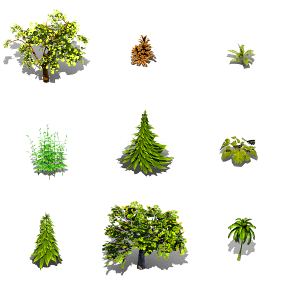
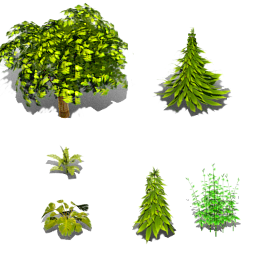
Updated spritesheets and made a couple of minor changes

diff --git a/Client/Core/src/plotManager.js b/Client/Core/src/plotManager.js
@@ -25,24 +25,24 @@ define([
             {
                 var position = positions[i];
                 var weaponName;
-                //                switch (i % 4)
-                //                {
-                //                    case 0:
-                weaponName = 'Bronze Sword and Shield';
-                //                        break;
-                //
-                //                    case 1:
-                //                        weaponName = 'Short Bow';
-                //                        break;
-                //
-                //                    case 2:
-                //                        weaponName = 'Twin Bronze Swords';
-                //                        break;
-                //
-                //                    case 3:
-                //                        weaponName = 'Iron Longsword';
-                //                        break;
-                //                }
+                switch (i % 4)
+                {
+                    case 0:
+                        weaponName = 'Bronze Sword and Shield';
+                        break;
+
+                    case 1:
+                        weaponName = 'Short Bow';
+                        break;
+
+                    case 2:
+                        weaponName = 'Twin Bronze Swords';
+                        break;
+
+                    case 3:
+                        weaponName = 'Iron Longsword';
+                        break;
+                }
 
                 var soldier = new Soldier({
                     name: 'Unit ' + (i + 1),

diff --git a/Client/Core/src/players/player.js b/Client/Core/src/players/player.js
@@ -1,8 +1,8 @@
-define(['text!../../content/attacks.json', '../eventManager', '../pathManager', 'renderer', '../scheduler', '../soundManager', '../utility'],
-    function (AttackData, EventManager, PathManager, Renderer, Scheduler, SoundManager, Utility)
+define(['text!../../content/soldierData.json', '../eventManager', '../pathManager', 'renderer', '../scheduler', '../soundManager', '../utility'],
+    function (SoldierData, EventManager, PathManager, Renderer, Scheduler, SoundManager, Utility)
     {
         'use strict';
-        var attackData = JSON.parse(AttackData);
+        var soldierData = JSON.parse(SoldierData);
 
         function Player(map, units, activeUnitView, renderableTurnQueue)
         {
@@ -47,7 +47,7 @@ define(['text!../../content/attacks.json', '../eventManager', '../pathManager', 
         {
             var attacks = [];
             var weapon = this.unit.weapon;
-            var attackType = attackData[weapon.type];
+            var attackType = soldierData[weapon.type];
 
             for (var attackName in attackType)
             {
@@ -71,7 +71,7 @@ define(['text!../../content/attacks.json', '../eventManager', '../pathManager', 
                     return Math.min(this.unit.weapon.range, PathManager.diagonalMoveCost);
 
                 case 'shortShot':
-                    return  this.unit.weapon.range / 2;
+                    return this.unit.weapon.range / 2;
 
                 case 'longShot':
                     return this.unit.weapon.range;

diff --git a/Client/Core/src/map.js b/Client/Core/src/map.js
@@ -2,6 +2,7 @@ define(['./eventManager'], function (EventManager)
 {
     'use strict';
 
+
     function Map(width, height)
     {
         this.tiles = [];
@@ -59,19 +60,28 @@ define(['./eventManager'], function (EventManager)
         return true;
     };
 
-    Map.prototype.onClick = function (e, x, y)
+    Map.prototype.onClick = function (e, x, y, soldier)
     {
-        var tile = this.getTile(x, y);
+        var tile;
+        if (soldier)
+        {
+            tile = this.getTile(soldier.tileX, soldier.tileY);
+        }
+        else
+        {
+            tile = this.getTile(x, y);
+        }
+
         if (tile)
         {
-            this.trigger('tileClick', tile, x, y);
+            this.trigger('tileClick', tile, x, y, soldier);
         }
     };
 
     Map.prototype.getTile = function (x, y)
     {
         if (x < 0 || y < 0 || x > this.width - 1 || y > this.height - 1)
-            return null;
+            return;
 
         return this.tiles[x + y * this.width];
     };

diff --git a/Client/Renderer/src/renderableSoldier.js b/Client/Renderer/src/renderableSoldier.js
@@ -79,6 +79,19 @@ define(['Core/src/imageCache', 'Core/src/spriteSheet', './effects/transitionEffe
         return this.unit.tileY;
     };
 
+    RenderableSoldier.prototype.isPointInside = function (camera, x, y)
+    {
+        var spriteSheet = this.spriteSheets[this.unit.state];
+        var position = camera.tileToScreen(this.unit.tileX, this.unit.tileY);
+
+        var width = spriteSheet.tileWidth * camera.scale;
+        var height = spriteSheet.tileHeight * camera.scale;
+        var left = position.x - camera.viewportRect.x + camera.halfTileWidth - width / 2;
+        var top = position.y - camera.viewportRect.y - height / 2;
+
+        return x >= left && x <= left + width && y >= top && y <= top + height;
+    };
+
     RenderableSoldier.prototype.onDirectionChange = function ()
     {
         this.spriteSheets[this.unit.state].playAnimation(this.unit.direction);

diff --git a/Client/Renderer/src/renderer.js b/Client/Renderer/src/renderer.js
@@ -36,8 +36,19 @@ define([
         {
             if (this.renderableMap)
             {
+                var soldier;
+                for (var i = 0; i < this.renderables.length; i++)
+                {
+                    var obj = this.renderables[i];
+                    if (obj instanceof RenderableSoldier && obj.isPointInside(this.camera, e.pageX, e.pageY))
+                    {
+                        soldier = obj.unit;
+                        break;
+                    }
+                }
+
                 var position = this.camera.screenToTile(e.pageX + this.camera.viewportRect.x, e.pageY + this.camera.viewportRect.y);
-                this.renderableMap.onClick(e, position.x, position.y);
+                this.renderableMap.onClick(e, position, soldier);
             }
         };
 

diff --git a/Client/Core/src/soldier.js b/Client/Core/src/soldier.js
@@ -5,8 +5,8 @@ define(['./eventManager', './utility'], function (Events, Utility)
     var defaults = {
         hp: 100,
         maxHP: 100,
-        ap: 42,
-        maxAP: 42,
+        ap: 100,
+        maxAP: 100,
         maxMoveableHeight: 2,
         canClimbObjects: true,
         direction: 1,
@@ -42,6 +42,14 @@ define(['./eventManager', './utility'], function (Events, Utility)
 
     Soldier.prototype.setDirection = function (x, y)
     {
+        if (Math.abs(x) > 1 || Math.abs(y) > 1)
+        {
+            // Normalize the direction
+            var length = Math.sqrt(x * x + y * y);
+            x = Math.round(x / length);
+            y = Math.round(y / length);
+        }
+
         var previousDirection = this.direction;
         this.direction = directions[y + 1][x + 1];
 

diff --git a/Client/Core/src/players/localPlayer.js b/Client/Core/src/players/localPlayer.js
@@ -46,16 +46,9 @@ define(['Renderer/src/ui/actionBarView', 'Renderer/src/ui/unitView', '../inputHa
         this.map.off('tileClick', this);
     };
 
-    LocalPlayer.prototype.onTileClick = function (tile, x, y)
+    LocalPlayer.prototype.onTileClick = function (tile, x, y, soldier)
     {
-        if (tile.unit && tile.unit !== this.unit)
-        {
-            this.renderableTurnQueue.select(tile.unit);
-        }
-        else
-        {
-            this.renderableTurnQueue.select();
-        }
+        this.renderableTurnQueue.select(soldier);
     };
 
 

diff --git a/Client/Renderer/src/renderableMap.js b/Client/Renderer/src/renderableMap.js
@@ -20,9 +20,9 @@ define(['Core/src/spriteSheet'], function (SpriteSheet)
         return this.map.getTile(Math.floor(x / scale), Math.floor(y / scale));
     };
 
-    RenderableMap.prototype.onClick = function (e, x, y)
+    RenderableMap.prototype.onClick = function (e, position, soldier)
     {
-        this.map.onClick(e, x, y);
+        this.map.onClick(e, position.x, position.y, soldier);
     };
 
     RenderableMap.prototype.render = function (context, camera)

diff --git a/Client/Renderer/src/renderableObject.js b/Client/Renderer/src/renderableObject.js
@@ -8,7 +8,7 @@ define(['Core/src/spriteSheet'], function (SpriteSheet)
 
         var size;
         if (this.object.type === 'tree')
-            size = {tileWidth: 96, tileHeight: 96};
+            size = {tileWidth: 128, tileHeight: 128};
 
         var path = 'Renderer/content/images/' + this.object.type + '.png';
         this.spriteSheet = new SpriteSheet(this.object.type, path, size);

diff --git a/Client/Core/src/pathManager.js b/Client/Core/src/pathManager.js
@@ -113,6 +113,10 @@ define(['./utility'], function (Utility)
         if (!destinationTile)
             return false;
 
+        // TODO: Make this more robust
+        if (destinationTile.spriteIndex > 16 && destinationTile.spriteIndex <= 32)
+            return false;
+
         if (destinationTile.unit)
         {
             if (!options.ignoreUnits)
